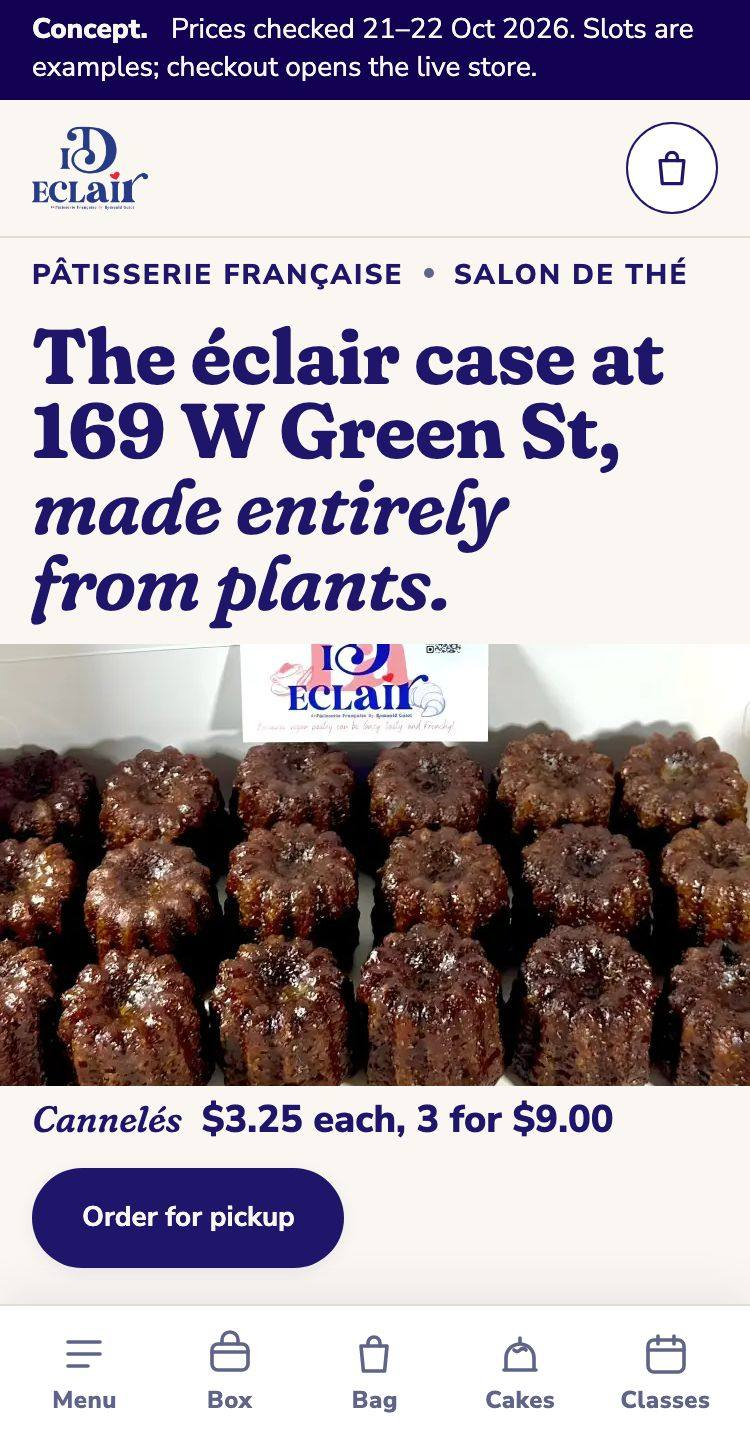
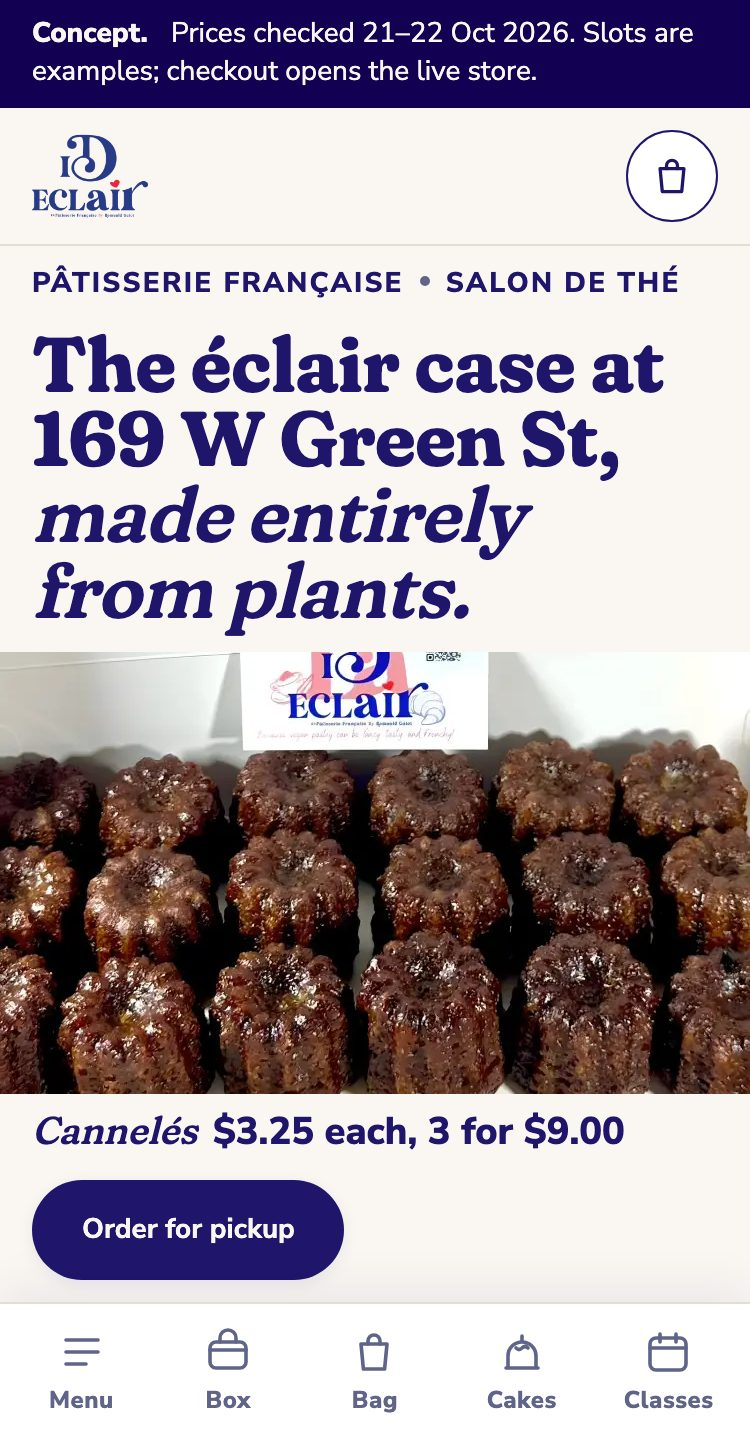
demo: eng-0002 wave E3 (box of six as chapter II on the home, first Add within 1.5 screens on home, menu, cakes, classes)

diff --git a/demo/eng-0002/index.html b/demo/eng-0002/index.html
@@ -518,6 +518,13 @@
 .ix-boxwrap{margin-top:var(--sp-12);padding:var(--sp-4);background:var(--color-surface);border-radius:var(--radius-md);box-shadow:var(--shadow-e2)}
 @media (min-width:900px){.ix-boxwrap{padding:var(--sp-8)}}
 .ix-boxwrap h3{text-wrap:balance;font-size:var(--text-xl);line-height:1.05;font-weight:700;font-variation-settings:"SOFT" 100,"WONK" 1}
+/* wave E3, 25 Oct 2026: the box of six is chapter II, straight after the vitrine, so the most-ordered
+   bundle sits within four and a half phone screens; on phones chapter I opens with the cannelés from the
+   photograph as one row (the rail's cannelés card steps aside there), so the first Add is in reach */
+.ix-six .ix-boxwrap{margin-top:0}
+.ix-list.ix-lead{margin:var(--sp-3) 0 var(--sp-4)}
+@media (min-width:900px){.ix-list.ix-lead{display:none}}
+@media (max-width:899px){.ix-case .vc-lead{display:none}}
 
 /* chapter IV: the salon */
 .ix-salon .wrap{display:grid;gap:var(--sp-8);align-items:center}
@@ -666,12 +673,15 @@
       <div class="sec-head">
         <p class="ix-moment"><b>I</b><span lang="fr">La vitrine</span></p>
         <h2 id="h-case">Today behind the glass.</h2>
-        <p>Six from the counter at the shop’s own prices. Add what tempts you; the earliest pickup time is already chosen.</p>
+        <ul class="ix-list ix-lead" aria-label="The cannelés from the photograph">
+          <li><span class="nm"><b lang="fr">Cannelés</b><small>By three, from the tray above; on the live store</small></span><div class="row"><span class="price">$9.00</span><button class="add" type="button" data-add data-handle="caneles" data-title="Cannelés, by 3" data-price="9" data-variant="42881176993980" data-image="img/caneles-1-800.jpg">Add</button></div></li>
+        </ul>
+        <p>From the counter at the shop’s own prices. Add what tempts you; the earliest pickup time is already chosen.</p>
       </div>
       <a class="link" href="menu.html">The whole menu, with search</a>
     </div>
     <div class="ix-case">
-      <article class="vc wide" data-card>
+      <article class="vc wide vc-lead" data-card>
         <span class="live">On the live store</span>
         <img src="img/caneles-1-800.jpg" srcset="img/caneles-1-800.jpg 800w, img/caneles-1.jpg 1600w" sizes="(min-width:900px) 560px, 270px" width="1600" height="1600" alt="Three cannelés on one of the shop’s blue glazed plates" loading="lazy">
         <span class="vc-mark" aria-hidden="true"><svg class="heart" viewBox="0 0 24 24"><path d="M12 21s-7-4.6-9.3-9A5.5 5.5 0 0 1 12 6a5.5 5.5 0 0 1 9.3 6c-2.3 4.4-9.3 9-9.3 9z"/></svg></span>
@@ -727,6 +737,32 @@
   </div>
 </section>
 
+<section class="ix-six bg-deep" id="box" aria-labelledby="h-box">
+  <div class="wrap">
+    <div class="sec-head">
+      <p class="ix-moment"><b>II</b><span lang="fr">La boîte</span></p>
+      <h2 id="h-box">Six macarons, boxed your way.</h2>
+      <p>Tap flavours until the box is full: six for $15, the shop’s own price. Tap a macaron in the box to swap it out.</p>
+    </div>
+    <div class="box ix-boxwrap" data-box data-price="15" data-title="Box of six macarons" data-image="img/macarons-2-800.jpg">
+      <img src="img/macarons-2-800.jpg" srcset="img/macarons-2-800.jpg 800w, img/macarons-2.jpg 1600w" sizes="(min-width:900px) 40vw, 100vw" width="1600" height="1600" alt="Six macarons lined up in a white iD Éclair box" loading="lazy">
+      <div>
+        <div class="slots" data-box-slots role="group" aria-live="polite" aria-label="Your box"><span>1</span><span>2</span><span>3</span><span>4</span><span>5</span><span>6</span></div>
+        <div class="flav" role="group" aria-label="Flavours">
+          <button type="button" data-f="Raspberry" data-short="Rasp"><i class="f-raspberry"></i>Raspberry</button>
+          <button type="button" data-f="Pistachio" data-short="Pist"><i class="f-pistachio"></i>Pistachio</button>
+          <button type="button" data-f="Chocolate" data-short="Choc"><i class="f-chocolate"></i>Chocolate</button>
+          <button type="button" data-f="Coffee" data-short="Coff"><i class="f-coffee"></i>Coffee</button>
+          <button type="button" data-f="Coconut" data-short="Coco"><i class="f-coconut"></i>Coconut</button>
+        </div>
+        <p class="note-sm">The day’s bake decides which flavours are in the case.</p>
+        <div class="foot"><span class="price">$15.00</span><button class="btn btn-brand" type="button" data-box-add disabled>Fill the box first</button><button class="link" type="button" data-box-clear>Start over</button><button class="link" type="button" data-box-surprise>Surprise me</button></div>
+        <div class="alt"><span>Or the assorted box, boxed today</span><span class="price">$18.00</span><button class="add" type="button" data-add data-handle="macarons" data-title="Assorted macaron box" data-price="18" data-variant="42881210810556" data-image="img/macarons-2-800.jpg">Add</button></div>
+      </div>
+    </div>
+  </div>
+</section>
+
 <section class="ix-chef bg-white" id="chef" aria-labelledby="h-chef">
   <div class="wrap">
     <figure>
@@ -734,7 +770,7 @@
       <figcaption>The large gift basket on the live store: biscuits, meringues, truffles and a jar of jam.</figcaption>
     </figure>
     <div class="ix-copy">
-      <p class="ix-moment"><b>II</b><span lang="fr">Les mains</span></p>
+      <p class="ix-moment"><b>III</b><span lang="fr">Les mains</span></p>
       <h2 id="h-chef">Four generations of pastry, one pair of hands.</h2>
       <p>Romuald Guiot comes from a family of pastry cooks; the shop’s own story starts in a grandfather’s restaurant, with a blue apron. Chef Romy trained at La Maison de Marc Veyrat, opened La Mirabelle in New York, and reached the final of Food Network’s Spring Baking Championship.</p>
       <p>On Green Street the technique stays French and the butter comes from plants. Guests are often surprised to learn that the whole case is vegan, the chef told Flaunt. After the Eaton Fire the shop gave éclairs away, and its daily leftovers now go to Friends In Deed in Pasadena.</p>
@@ -756,7 +792,7 @@
   <div class="wrap">
     <div class="ix-rite-top">
       <div>
-        <p class="ix-moment"><b>III</b><span lang="fr">Le rituel</span></p>
+        <p class="ix-moment"><b>IV</b><span lang="fr">Le rituel</span></p>
         <div class="sec-head tight">
           <h2 id="h-pickup">Choose the moment. It is boxed for then.</h2>
           <p>Ordering ahead takes a minute on a phone: add from the case, pick a day and a time, and walk in to a box with your name on it.</p>
@@ -789,34 +825,13 @@
         <div class="actions" data-review><button class="btn btn-brand btn-sm" type="button" data-cart-open>Review your bag · <span data-cart-total>$0.00</span></button></div>
       </div>
     </div>
-
-    <div class="box ix-boxwrap" id="box" data-box data-price="15" data-title="Box of six macarons" data-image="img/macarons-2-800.jpg">
-      <img src="img/macarons-2-800.jpg" srcset="img/macarons-2-800.jpg 800w, img/macarons-2.jpg 1600w" sizes="(min-width:900px) 40vw, 100vw" width="1600" height="1600" alt="Six macarons lined up in a white iD Éclair box" loading="lazy">
-      <div>
-        <div class="sec-head tight">
-          <h3>While you are here, a box of six.</h3>
-          <p>Tap flavours until the box is full: six for $15, the shop’s own price. Tap a macaron in the box to swap it out.</p>
-        </div>
-        <div class="slots" data-box-slots role="group" aria-live="polite" aria-label="Your box"><span>1</span><span>2</span><span>3</span><span>4</span><span>5</span><span>6</span></div>
-        <div class="flav" role="group" aria-label="Flavours">
-          <button type="button" data-f="Raspberry" data-short="Rasp"><i class="f-raspberry"></i>Raspberry</button>
-          <button type="button" data-f="Pistachio" data-short="Pist"><i class="f-pistachio"></i>Pistachio</button>
-          <button type="button" data-f="Chocolate" data-short="Choc"><i class="f-chocolate"></i>Chocolate</button>
-          <button type="button" data-f="Coffee" data-short="Coff"><i class="f-coffee"></i>Coffee</button>
-          <button type="button" data-f="Coconut" data-short="Coco"><i class="f-coconut"></i>Coconut</button>
-        </div>
-        <p class="note-sm">The day’s bake decides which flavours are in the case.</p>
-        <div class="foot"><span class="price">$15.00</span><button class="btn btn-brand" type="button" data-box-add disabled>Fill the box first</button><button class="link" type="button" data-box-clear>Start over</button><button class="link" type="button" data-box-surprise>Surprise me</button></div>
-        <div class="alt"><span>Or the assorted box, boxed today</span><span class="price">$18.00</span><button class="add" type="button" data-add data-handle="macarons" data-title="Assorted macaron box" data-price="18" data-variant="42881210810556" data-image="img/macarons-2-800.jpg">Add</button></div>
-      </div>
-    </div>
   </div>
 </section>
 
 <section class="ix-salon bg-deep" id="salon" aria-labelledby="h-salon">
   <div class="wrap">
     <div class="ix-copy">
-      <p class="ix-moment"><b>IV</b><span lang="fr">Le salon de thé</span></p>
+      <p class="ix-moment"><b>V</b><span lang="fr">Le salon de thé</span></p>
       <h2 id="h-salon">Or stay a while, and take tea.</h2>
       <p>Afternoon tea is the third service on Green Street. The counter board lists thirteen Palais des Thés teas, espresso on plant milk, Romy’s hot chocolate, a French breakfast, the soup and sandwich <span lang="fr">du jour</span> and four <span lang="fr">salades</span>, and a tea party for two at $80 with the chef’s sweets and savories. The chalkboard sums the room up in three words of its own: <q>Tasty, Fancy, and Frenchy!</q> Reviewers single out the décor and the dishes, the outdoor tables, the welcome for dogs, and a staff that commits fully to the French theme.</p>
       <ul class="ix-list">
@@ -841,7 +856,7 @@
       <figcaption>Dark chocolate truffles, made next door at 169.</figcaption>
     </figure>
     <div class="ix-copy">
-      <p class="ix-moment"><b>V</b><span lang="fr">Le soir</span></p>
+      <p class="ix-moment"><b>VI</b><span lang="fr">Le soir</span></p>
       <h2 id="h-soir">In the evening, one door down at 163.</h2>
       <p class="ix-sign" lang="fr">Un verre, un éclair.</p>
       <p>La Cave is the pâtisserie’s evening: organic, biodynamic and vegan wines, Rebel Cheese boards, small plates, and plated desserts from the kitchen next door with a glass poured to match.</p>
@@ -858,7 +873,7 @@
 <section class="ix-invite" id="order" aria-labelledby="h-invite">
   <div class="wrap">
     <div class="sec-head">
-      <p class="ix-moment"><b>VI</b><span lang="fr">L’invitation</span></p>
+      <p class="ix-moment"><b>VII</b><span lang="fr">L’invitation</span></p>
       <h2 id="h-invite">A love letter you can eat, <em lang="fr">à emporter.</em></h2>
       <p>The jar desserts already carry the shop’s love-note names. All four are on the live store today, and the doors below lead to everything else.</p>
     </div>

diff --git a/demo/eng-0002/menu.html b/demo/eng-0002/menu.html
@@ -1477,6 +1477,28 @@ html{scroll-padding-top:136px}
 @media (min-width:520px){.seg .t-long{display:inline}.seg .t-short{display:none}}
 .legend{font-size:var(--text-xs);line-height:1.5;color:var(--color-muted);max-width:78ch;margin-bottom:var(--sp-6)}
 .legend b{color:var(--color-ink)}
+/* wave E3, 25 Oct 2026: the first Add inside one and a half phone screens. The legend folds into a
+   disclosure, the tools sit on one row on a phone (fulfilment words, layout icons, the count kept for
+   screen readers), the quick searches step aside below 900 px, and the chef's éclair shows its price and
+   Add straight under its name, then its line and the Saturday drop */
+.legend{margin-bottom:var(--sp-3)}
+.legend summary{display:flex;align-items:center;min-height:44px;cursor:pointer;font-weight:700;color:var(--color-brand)}
+.legend p{margin-top:var(--sp-2)}
+@media (max-width:519px){
+  .tools{flex-wrap:nowrap;gap:var(--sp-3)}
+  .tools > .seg .ico-s{display:none}
+  .tools > .seg button{padding:0 12px}
+  .tools-r{flex:0 0 auto}
+  .tools-r .count{position:absolute;width:1px;height:1px;overflow:hidden;clip:rect(0 0 0 0);white-space:nowrap}
+  .tools-r .seg button{min-width:44px;justify-content:center;padding:0 12px}
+  .tools-r .seg .vt{position:absolute;width:1px;height:1px;overflow:hidden;clip:rect(0 0 0 0);white-space:nowrap}
+}
+@media (max-width:899px){.mhead .try{display:none}}
+@media (max-width:719px){
+  .mgrid .item.feat .body > *{order:2}
+  .mgrid .item.feat .body > .fb,.mgrid .item.feat .body > h3{order:0}
+  .mgrid .item.feat .body > .row{order:1}
+}
 
 /* the grid: photos (default from 720px) or list rows (default on phones) */
 .mgrid .grp{grid-column:1 / -1;display:grid;gap:4px;padding:var(--sp-12) 0 var(--sp-3);border-bottom:1px solid var(--color-line);margin-bottom:var(--sp-2)}
@@ -1648,7 +1670,7 @@ html.os-on .toast{bottom:calc(var(--bar-real,var(--bar-h)) + var(--os-h) + 14px 
     <div>
       <p class="kick"><span>100% plant-based</span><span>Order ahead</span></p>
       <h1 id="h1">Today’s case at 169 W Green St, <em>boxed for your time.</em></h1>
-      <p class="lead">Every éclair, croissant, macaron and jar on one page, at the shop’s own prices. Pick a time and it is boxed for then.</p>
+      <p class="lead">Every éclair, croissant, macaron and jar, at the shop’s own prices.</p>
       <div class="hero-actions"><a class="btn btn-brand" href="#menu">Order for pickup</a></div>
       <form class="find" role="search" data-find>
         <label for="q">Search the menu</label>
@@ -1761,12 +1783,12 @@ html.os-on .toast{bottom:calc(var(--bar-real,var(--bar-h)) + var(--os-h) + 14px 
       <div class="tools-r">
         <p class="count" data-count aria-live="polite">Loading the menu</p>
         <div class="seg" role="group" aria-label="Layout" data-view>
-          <button type="button" data-v="list" aria-pressed="false"><svg class="ico-s" viewBox="0 0 24 24" aria-hidden="true"><path d="M4 6h16M4 12h16M4 18h16"/></svg>List</button>
-          <button type="button" data-v="photos" aria-pressed="true"><svg class="ico-s" viewBox="0 0 24 24" aria-hidden="true"><rect x="4" y="4" width="7" height="7" rx="1.5"/><rect x="13" y="4" width="7" height="7" rx="1.5"/><rect x="4" y="13" width="7" height="7" rx="1.5"/><rect x="13" y="13" width="7" height="7" rx="1.5"/></svg>Photos</button>
+          <button type="button" data-v="list" aria-pressed="false"><svg class="ico-s" viewBox="0 0 24 24" aria-hidden="true"><path d="M4 6h16M4 12h16M4 18h16"/></svg><span class="vt">List</span></button>
+          <button type="button" data-v="photos" aria-pressed="true"><svg class="ico-s" viewBox="0 0 24 24" aria-hidden="true"><rect x="4" y="4" width="7" height="7" rx="1.5"/><rect x="13" y="4" width="7" height="7" rx="1.5"/><rect x="4" y="13" width="7" height="7" rx="1.5"/><rect x="13" y="13" width="7" height="7" rx="1.5"/></svg><span class="vt">Photos</span></button>
         </div>
       </div>
     </div>
-    <p class="legend"><b>Ships nationwide</b>: shelf-stable boxes the new store can mail, a plan the chef confirms first; the live store offers pickup today. <b>Gluten-free</b>: as marked on the counter board (the soup <span lang="fr">du jour</span>; the endive and beet <span lang="fr">salades</span> without crostini) or listed on the live store on 22 October 2026, from a kitchen that also bakes with wheat (operations research, finding 7). Counter items: 19 of the menu app’s 113, prices checked 21 October 2026.</p>
+    <details class="legend"><summary>What “Ships nationwide” and “Gluten-free” mean</summary><p><b>Ships nationwide</b>: shelf-stable boxes the new store can mail, a plan the chef confirms first; the live store offers pickup today. <b>Gluten-free</b>: as marked on the counter board (the soup <span lang="fr">du jour</span>; the endive and beet <span lang="fr">salades</span> Counter items: 19 of the menu app’s 113, prices checked 21 October 2026.</p></details>
     <div class="grid mgrid" id="menu-grid" data-src="assets/menu.json" data-cats="eclair,vienn,bread,macaron,cake,gift,jam,cookie,class,drink,juice,tea,savory,salad,occasion" aria-busy="true">
       <div class="sk" aria-hidden="true"></div><div class="sk" aria-hidden="true"></div><div class="sk" aria-hidden="true"></div><div class="sk" aria-hidden="true"></div>
       <div class="sk" aria-hidden="true"></div><div class="sk" aria-hidden="true"></div><div class="sk" aria-hidden="true"></div><div class="sk" aria-hidden="true"></div>
@@ -1891,7 +1913,7 @@ html.os-on .toast{bottom:calc(var(--bar-real,var(--bar-h)) + var(--os-h) + 14px 
   var STORE = 'https://www.id-eclair.com';
   var MENU_APP = 'https://id-eclair.curated.menu/restaurant-locator/6a34661c2d34bb209e3d6780';
   var GROUPS = [
-    { id: 'eclair', slug: 'eclairs', cats: ['eclair'], chip: 'Éclairs', label: 'Éclairs', note: 'The house signature, from the case every morning.', words: 'eclair eclairs choux' },
+    { id: 'eclair', slug: 'eclairs', cats: ['eclair'], chip: 'Éclairs', label: 'Éclairs', note: 'The house signature, every morning.', words: 'eclair eclairs choux' },
     { id: 'vienn', slug: 'viennoiserie', cats: ['vienn', 'bread'], chip: 'Viennoiserie', label: 'Viennoiserie, tarts and bread', note: 'Laminated with plant butter, baked for the morning case.', words: 'viennoiserie pastry pastries croissant tart bread breakfast' },
     { id: 'macaron', slug: 'macarons', cats: ['macaron'], chip: 'Macarons', label: 'Macarons', note: 'One for $3 or six for $15 at the counter, or the assorted box from the live store.', words: 'macaron macarons box' },
     { id: 'cake', slug: 'cakes', cats: ['cake'], chip: 'Cakes and jars', label: 'Cakes and dessert jars', note: 'Individual mousse cakes from the case and the love-note jars. Whole and custom cakes start on <a href="cakes.html">the cakes page</a>.', words: 'cake cakes jar jars dessert mousse entremets' },

diff --git a/demo/eng-0002/classes.html b/demo/eng-0002/classes.html
@@ -401,7 +401,7 @@ textarea.cl-input{min-height:88px;resize:vertical}
     <div>
       <p class="kick rise"><span>Tuesdays</span><span>$125 a seat</span><span>169 W Green St</span></p>
       <h1 id="h1">Macaron Masterclass with Chef Romy, <em>Tuesdays at 3:30.</em></h1>
-      <p class="lead">Two hands-on hours at the shop, 3:30 to 5:30 pm, with the same plant-based recipes as the vitrine. You leave with 20 to 30 macarons in a box. Seats are very limited.</p>
+      <p class="lead">Two hands-on hours at the shop. You leave with 20 to 30 macarons.</p>
       <div class="hero-actions rise d3">
         <a class="btn btn-brand" href="#dates">See the Tuesdays</a>
         <a class="link" href="#gift">Give it as a gift</a>
@@ -451,21 +451,12 @@ textarea.cl-input{min-height:88px;resize:vertical}
 </div>
 
 
-<div class="facts" role="region" aria-label="Class facts from the shop’s own posts and store">
-  <div class="wrap">
-    <div><strong>$125.00</strong><span>a seat, per the shop’s posts</span></div>
-    <div><strong>2 hours</strong><span>Tuesdays, 3:30 to 5:30 pm</span></div>
-    <div><strong>20 to 30</strong><span>macarons to take home</span></div>
-    <div><strong>$140.00</strong><span>the Golden Ticket, as a gift</span></div>
-  </div>
-</div>
 
 <section id="dates" aria-labelledby="h-dates">
   <div class="wrap">
     <div class="cl-head">
       <div class="sec-head">
         <h2 id="h-dates">Pick your Tuesday.</h2>
-        <p>The next twelve Tuesdays, counted from today in Pasadena time. Reserve puts a seat in your bag; add more seats with the + button.</p>
       </div>
       <span class="ex">Example seat counts</span>
     </div>
@@ -474,11 +465,20 @@ textarea.cl-input{min-height:88px;resize:vertical}
     </div>
     <button class="btn btn-ghost btn-sm cl-more" type="button" data-cl-more hidden>Show four more Tuesdays</button>
     <div class="cl-how">
-      <p><b>How Reserve works.</b> It puts a seat in the same bag as your éclairs and boxes, so the whole order is one checkout, and the class calendar holds the seat, the waitlist and the reminders. Today the shop books classes by DM or in person.</p>
-      <p>Seat counts here are examples; the class calendar shows the real ones.</p>
+      <p><b>How Reserve works.</b> It puts a seat in the same bag as your éclairs and boxes (the + button adds more seats), so the whole order is one checkout, and the class calendar holds the seat, the waitlist and the reminders. Today the shop books classes by DM or in person.</p>
+      <p>These are the next twelve Tuesdays still on sale, counted from today in Pasadena time. Seat counts here are examples; the class calendar shows the real ones.</p>
     </div>
   </div>
 </section>
+
+<div class="facts" role="region" aria-label="Class facts from the shop’s own posts and store">
+  <div class="wrap">
+    <div><strong>$125.00</strong><span>a seat, per the shop’s posts</span></div>
+    <div><strong>2 hours</strong><span>Tuesdays, 3:30 to 5:30 pm</span></div>
+    <div><strong>20 to 30</strong><span>macarons to take home</span></div>
+    <div><strong>$140.00</strong><span>the Golden Ticket, as a gift</span></div>
+  </div>
+</div>
 
 <section class="bg-white" aria-labelledby="h-learn">
   <div class="wrap cl-learn">
@@ -669,7 +669,7 @@ textarea.cl-input{min-height:88px;resize:vertical}
   function exampleLeft(d) { return ((d.getUTCDate() * 37 + (d.getUTCMonth() + 1) * 11) % 9); }
   for (var k = 0; list.length < TOTAL && k < 60; k++) {
     var days = off + 7 * k, mins = days * 1440 + START - now.min;
-    if (mins <= 0) continue;
+    if (mins < CUTOFF) continue; /* wave E3: a Tuesday whose sales have closed drops off the list, so the first ticket can be reserved */
     var dt = new Date(T0 + days * 864e5), x = { d: dt, key: dt.toISOString().slice(0, 10), left: Math.min(CAP, exampleLeft(dt)), closed: mins < CUTOFF };
     list.push(x); byKey[x.key] = x;
   }

diff --git a/demo/eng-0002/cakes.html b/demo/eng-0002/cakes.html
@@ -406,7 +406,7 @@ textarea.ck-input{min-height:96px;resize:vertical}
     <div>
       <p class="kick rise"><span>Custom cakes</span><span>One week’s notice</span><span>100% plant-based</span></p>
       <h1 id="h1" class="rise d1">Custom cakes from 169 W Green St, <em>one week ahead.</em></h1>
-      <p class="lead">Tell Chef Romy the occasion, the guests and the flavour, add up to three photos, and get a sketch and a price back. The shop asks for a week’s notice, so the calendar below starts seven days out.</p>
+      <p class="lead">Tell the chef the occasion, the guests and the flavour, and get a sketch and a price back. Give it a week’s notice.</p>
       <div class="hero-actions rise d3">
         <a class="btn btn-brand" href="#builder">Start your cake</a>
         <a class="link" href="#gallery">See the gallery</a>
@@ -460,12 +460,12 @@ textarea.ck-input{min-height:96px;resize:vertical}
   <div class="wrap">
     <div class="sec-head">
       <h2 id="h-ways">Three ways to order a cake.</h2>
-      <p>From a message on one entremets to a cake designed with the chef. The second and third run through the six steps below.</p>
+      <p>From a message on one entremets to a cake designed with the chef.</p>
     </div>
     <ol class="ck-ways">
       <li class="ck-way">
         <h3>A message on a mousse cake</h3>
-        <p>The $15 individual entremets from the counter menu. In the live version you add a plaque of up to 35 characters at checkout.</p>
+        <p>The counter’s entremets, with a plaque of up to 35 characters.</p>
         <div class="row"><span class="price">$15.00</span><button class="add" type="button" data-add data-handle="mousse-cake" data-title="Mousse cake" data-price="15" data-glyph="M">Add</button></div>
       </li>
       <li class="ck-way">
